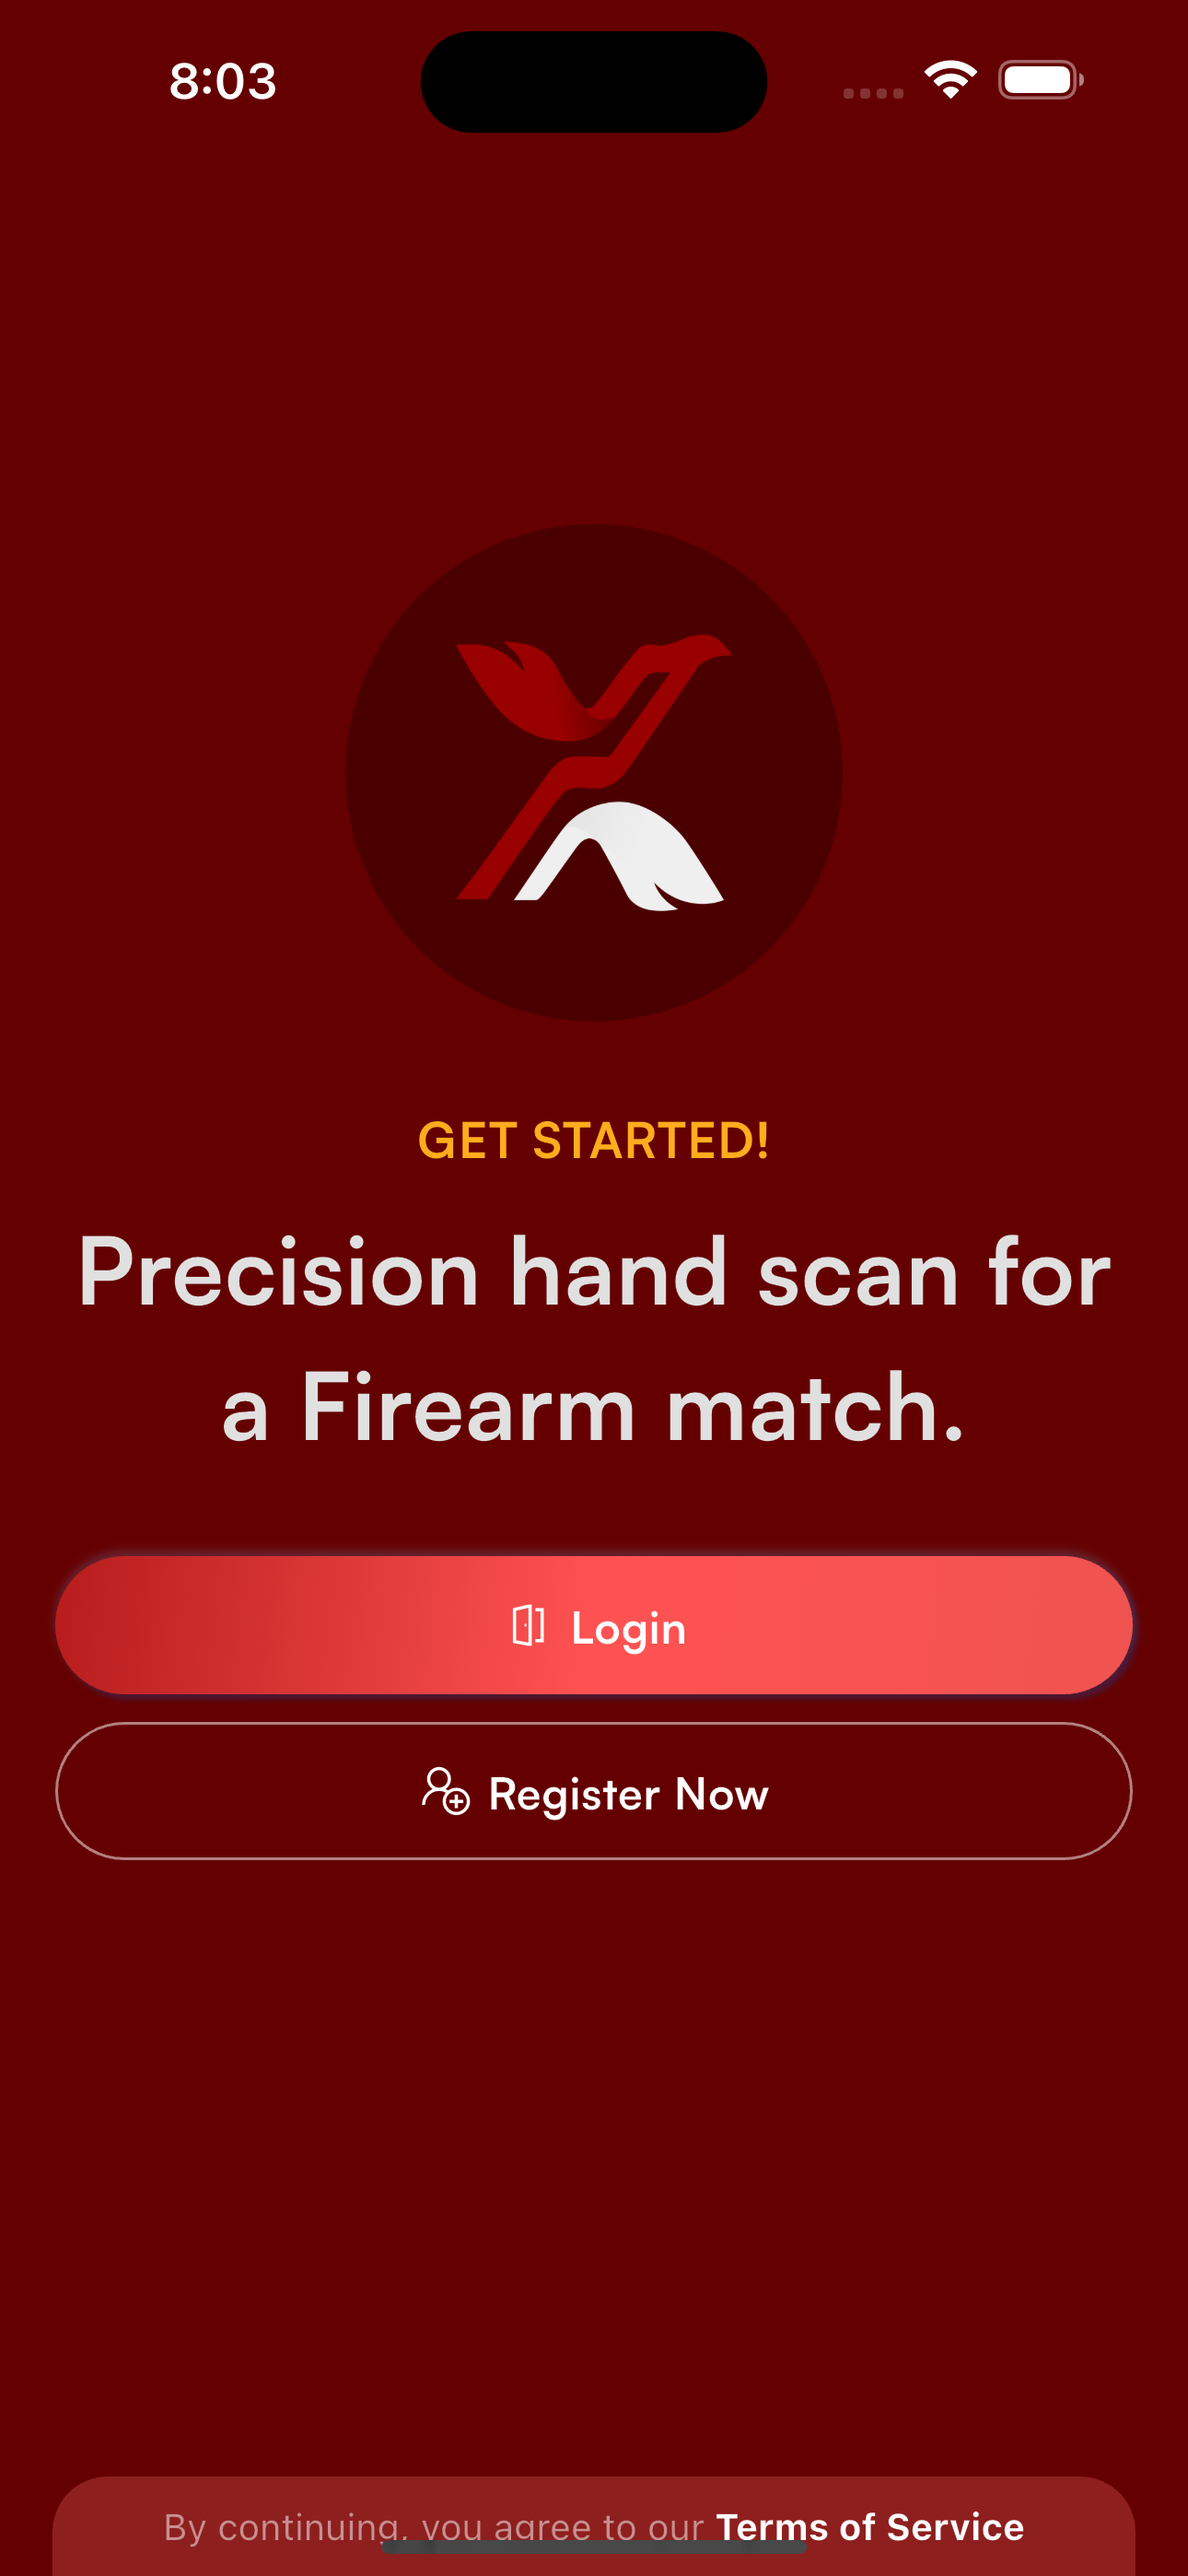
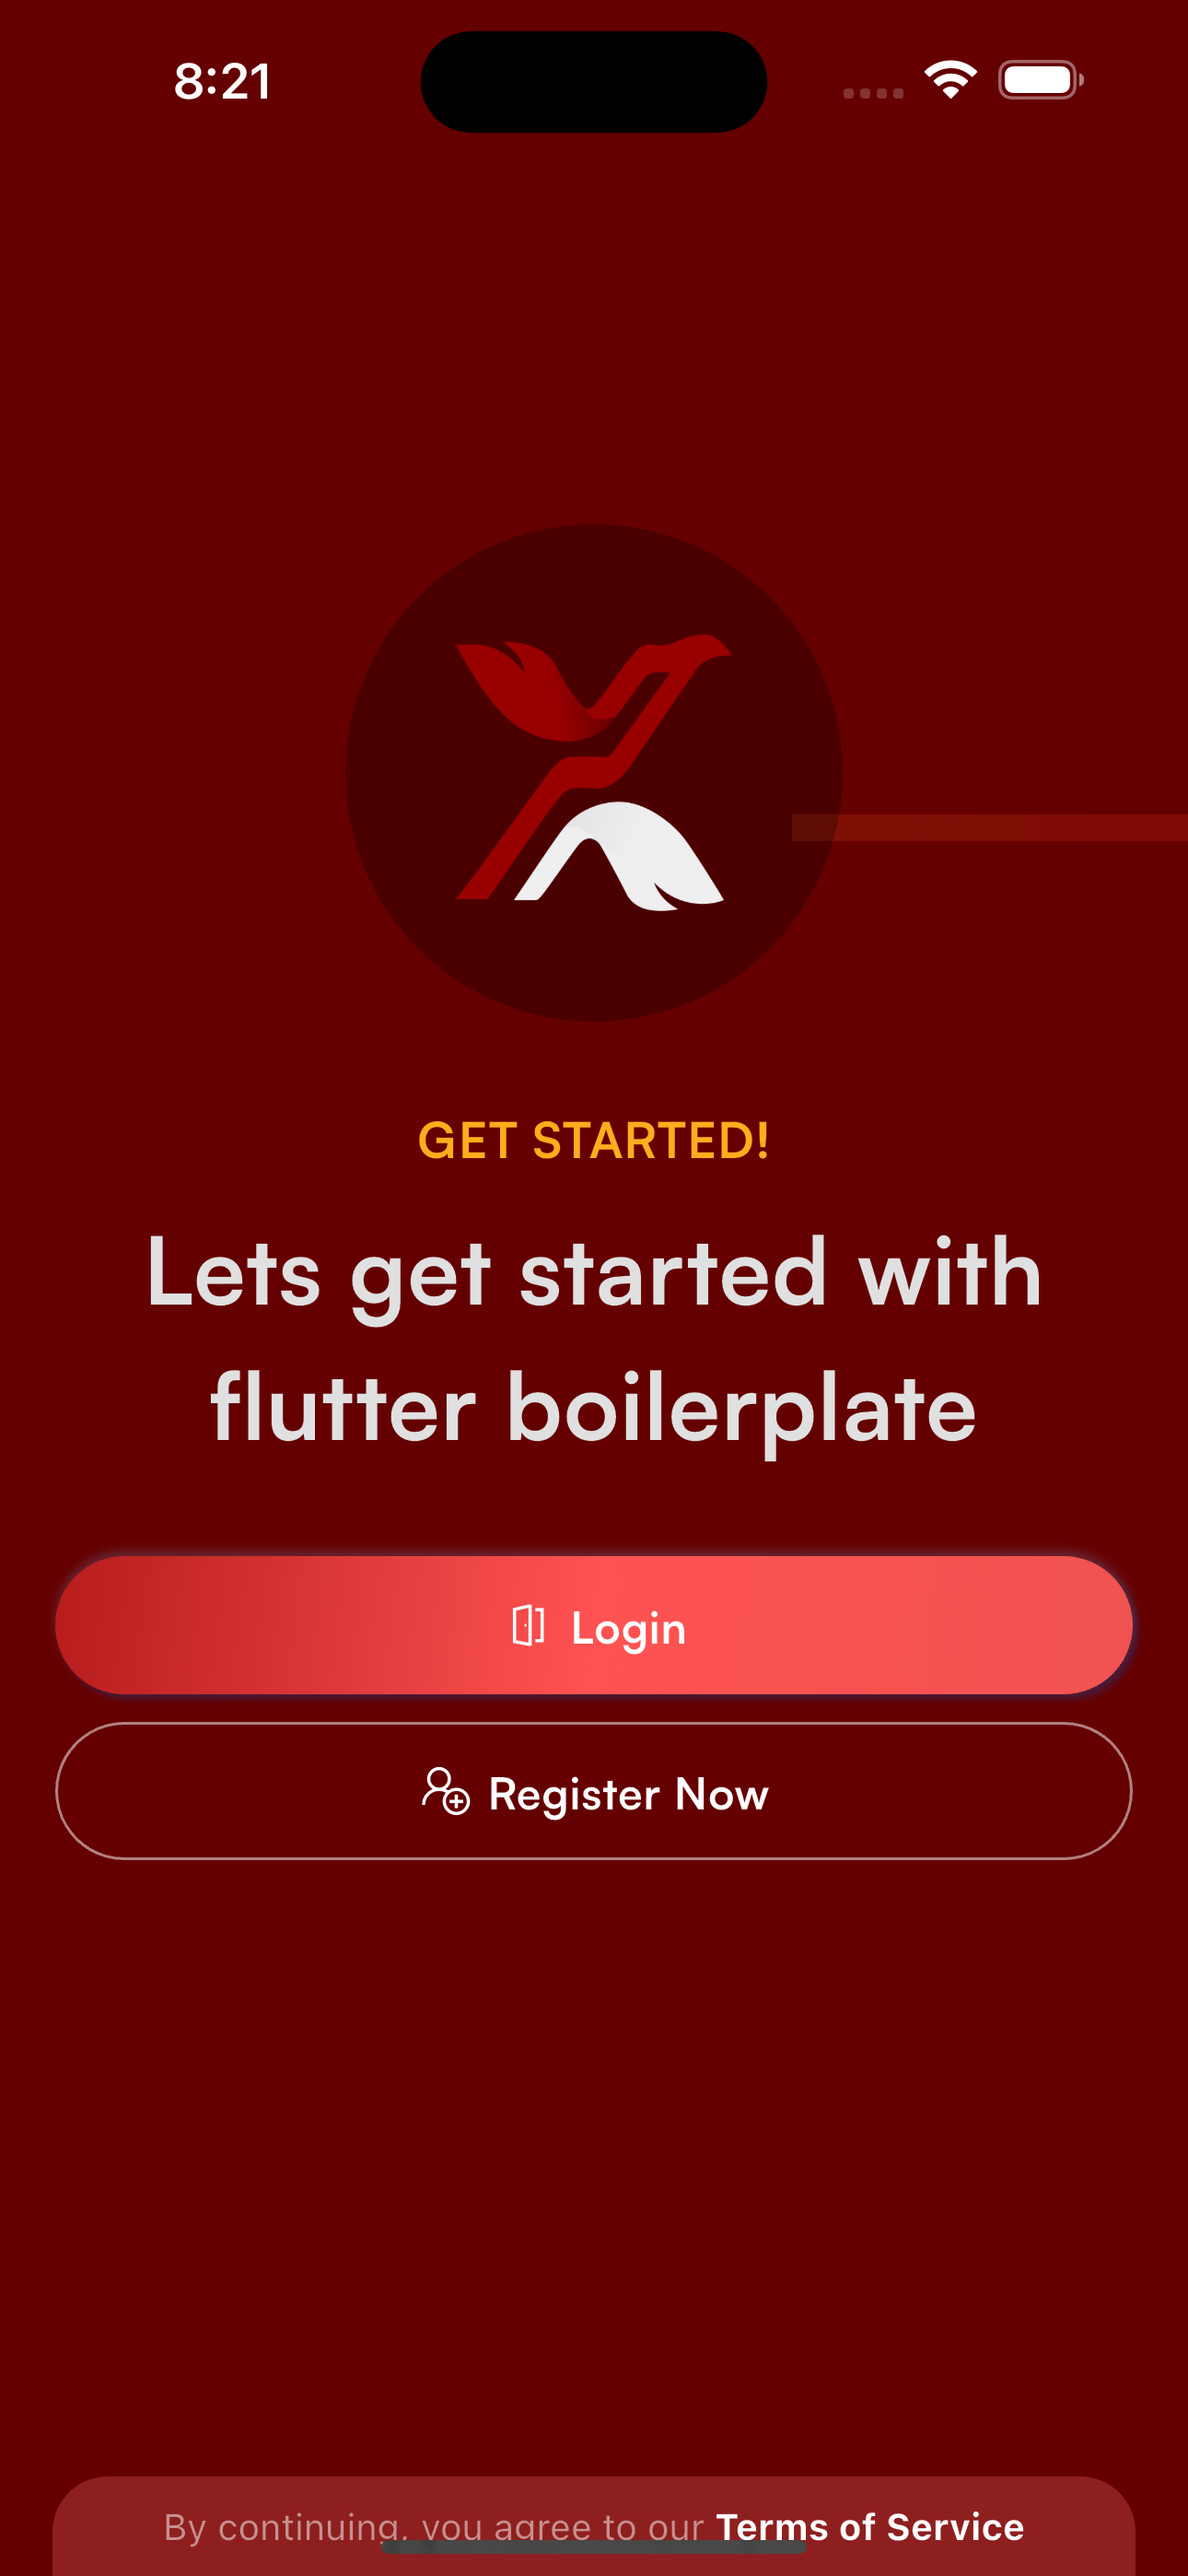
FIX: issues

Changed region(s): [[0.062, 0.4667, 0.9302, 0.5601], [0.7132, 0.3112, 1.0, 0.3423], [0.155, 0.0311, 0.2171, 0.0622]]

diff --git a/lib/services/auth/auth_screen.dart b/lib/services/auth/auth_screen.dart
@@ -76,7 +76,7 @@ class AuthScreen extends StatelessWidget {
                           ),
                           const SizedBox(height: 10),
                           Text(
-                            'Precision hand scan for a Firearm match.',
+                            'Lets get started with flutter boilerplate',
                             style: TextStyle(
                               color: Colors.grey[300],
                               fontWeight: FontWeight.w600,
